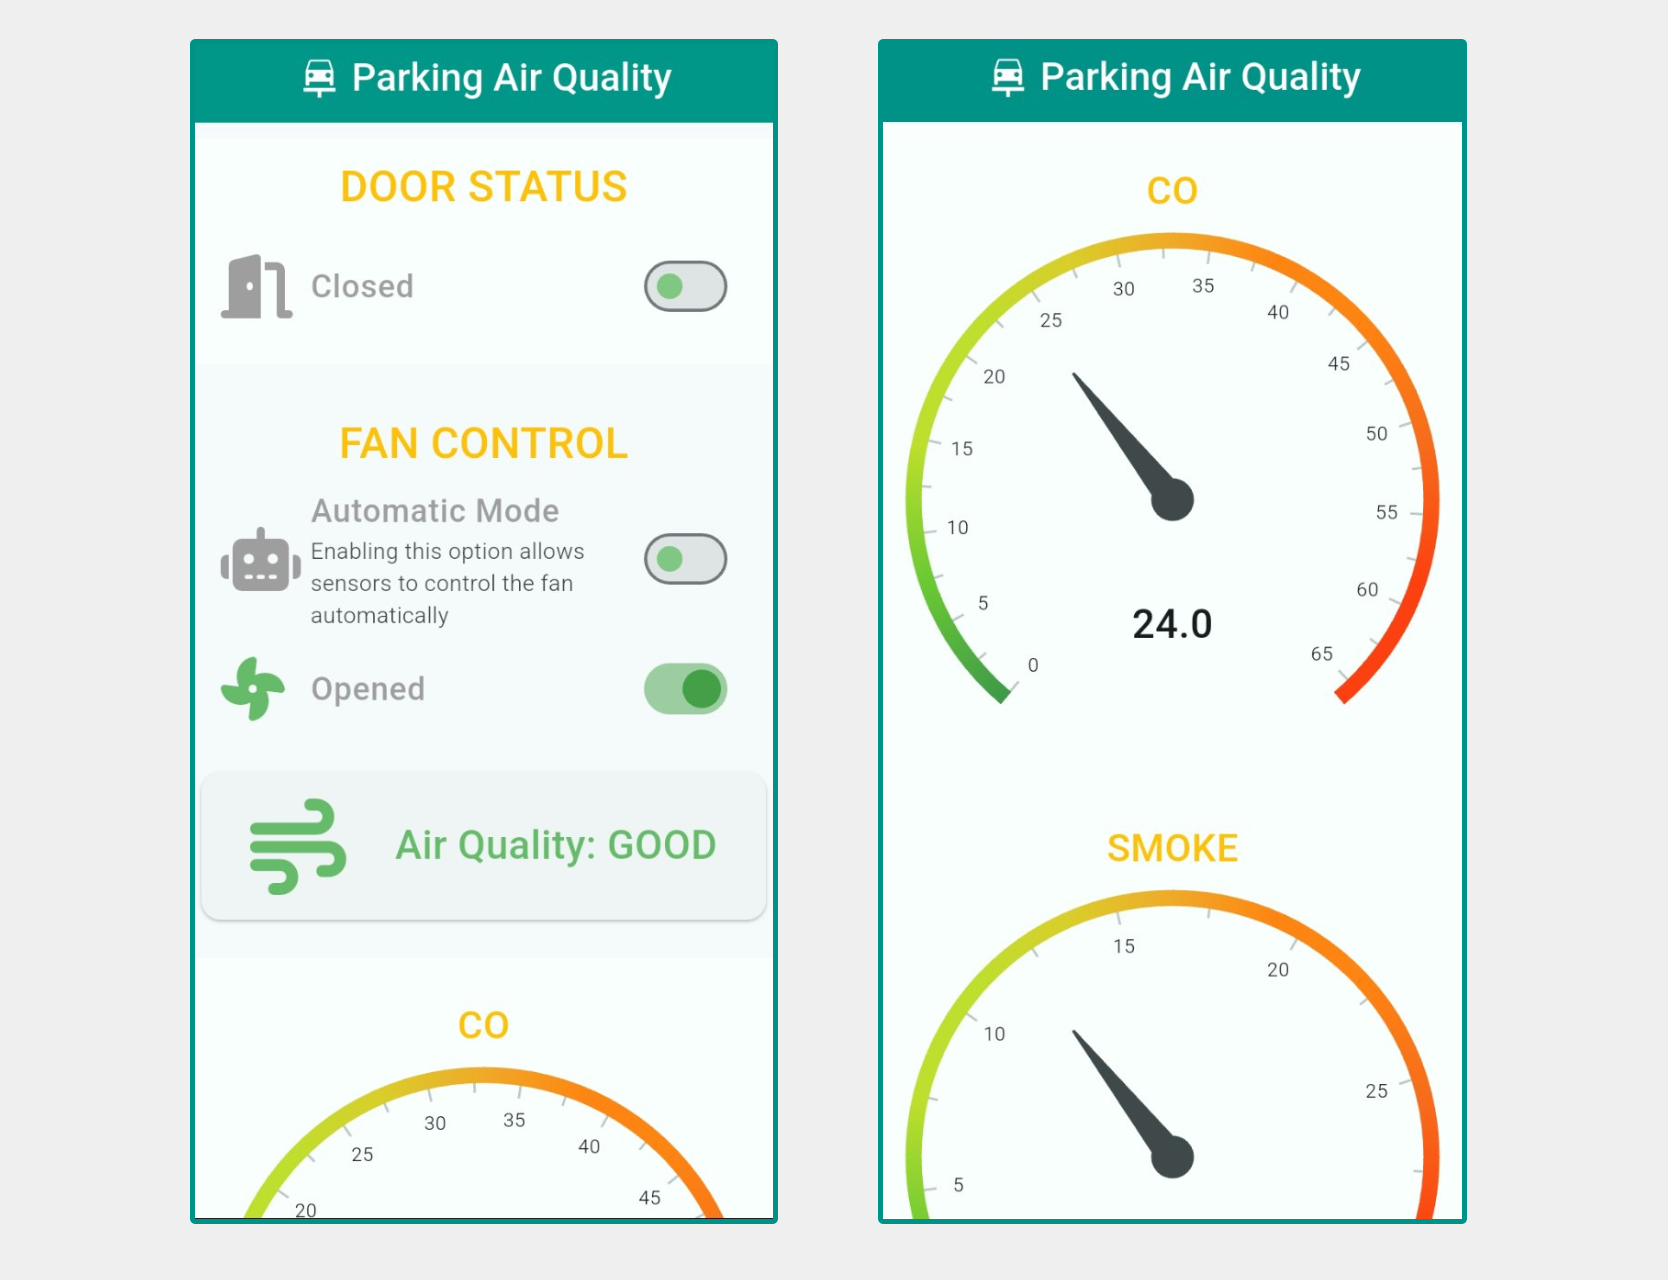
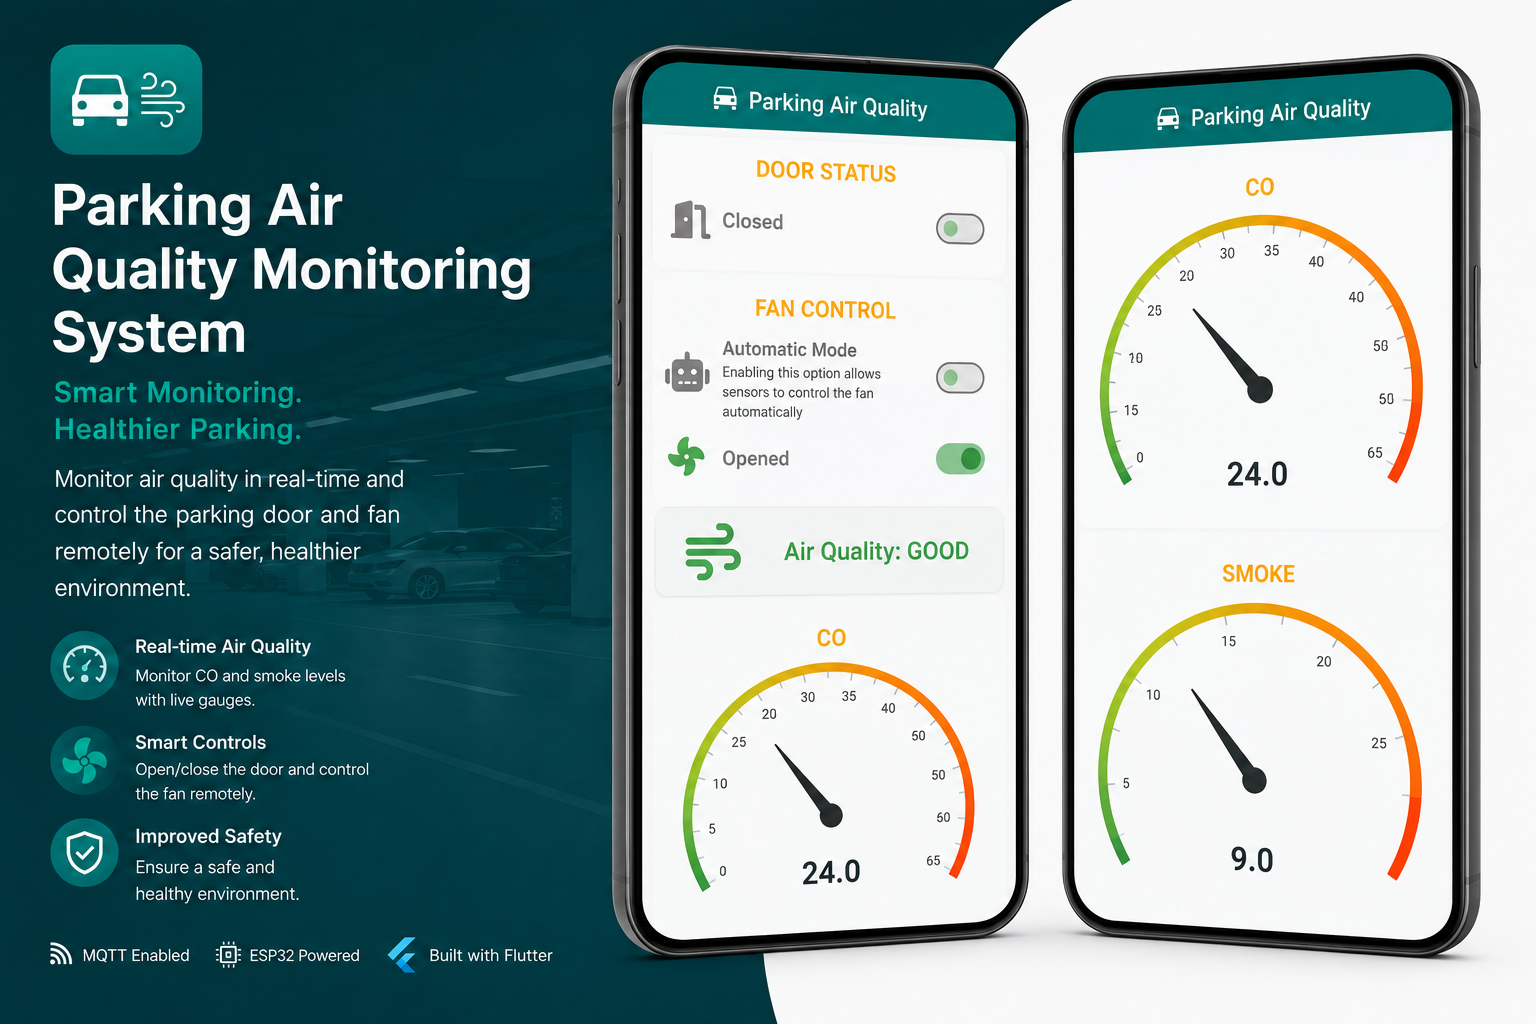
adding a new project

diff --git a/index.html b/index.html
@@ -79,14 +79,30 @@
             <img src="images/clinicos.png" alt="Clinicos" />
             <h3>ClinicOS</h3>
             <p>
-              A hospital management system built with Laravel 12,
-              Livewire, and Tailwind CSS. ClinicOS streamlines clinic operations
-              with role-based dashboards for managers, doctors, and
-              receptionists.
+              A hospital management system built with Laravel 12, Livewire, and
+              Tailwind CSS. ClinicOS streamlines clinic operations with
+              role-based dashboards for managers, doctors, and receptionists.
             </p>
             <a
               class="btn"
               href="https://github.com/MohammadMao/clinicos"
+              target="_blank"
+              >Source Code</a
+            >
+          </section>
+
+                    <section class="project-item">
+            <img src="images/thalath.png" alt="thalath" />
+            <h3>Thalath</h3>
+            <p>
+              A real-time multiplayer Arabic word game built with Flutter and
+              Firebase. Players take turns transforming three-letter Arabic
+              words by replacing one letter at a time, creating a chain of valid
+              words.
+            </p>
+            <a
+              class="btn"
+              href="https://github.com/MohammadMao/thalath"
               target="_blank"
               >Source Code</a
             >
@@ -118,22 +134,6 @@
             <a
               class="btn"
               href="https://github.com/MohammadMao/nibras-landingpage/"
-              target="_blank"
-              >Source Code</a
-            >
-          </section>
-
-          <section class="project-item">
-            <img src="images/weblog(3).png" alt="Web_Blog" />
-            <h3>WEBLOG</h3>
-            <p>
-              Simple weblog using HTML, CSS, JavaScript, PHP and, Features
-              contains: Adding, modifying and deleting posts, Likes/Dislike,
-              Modify user profile.
-            </p>
-            <a
-              class="btn"
-              href="https://github.com/MohammadMao/Web_Blog"
               target="_blank"
               >Source Code</a
             >
